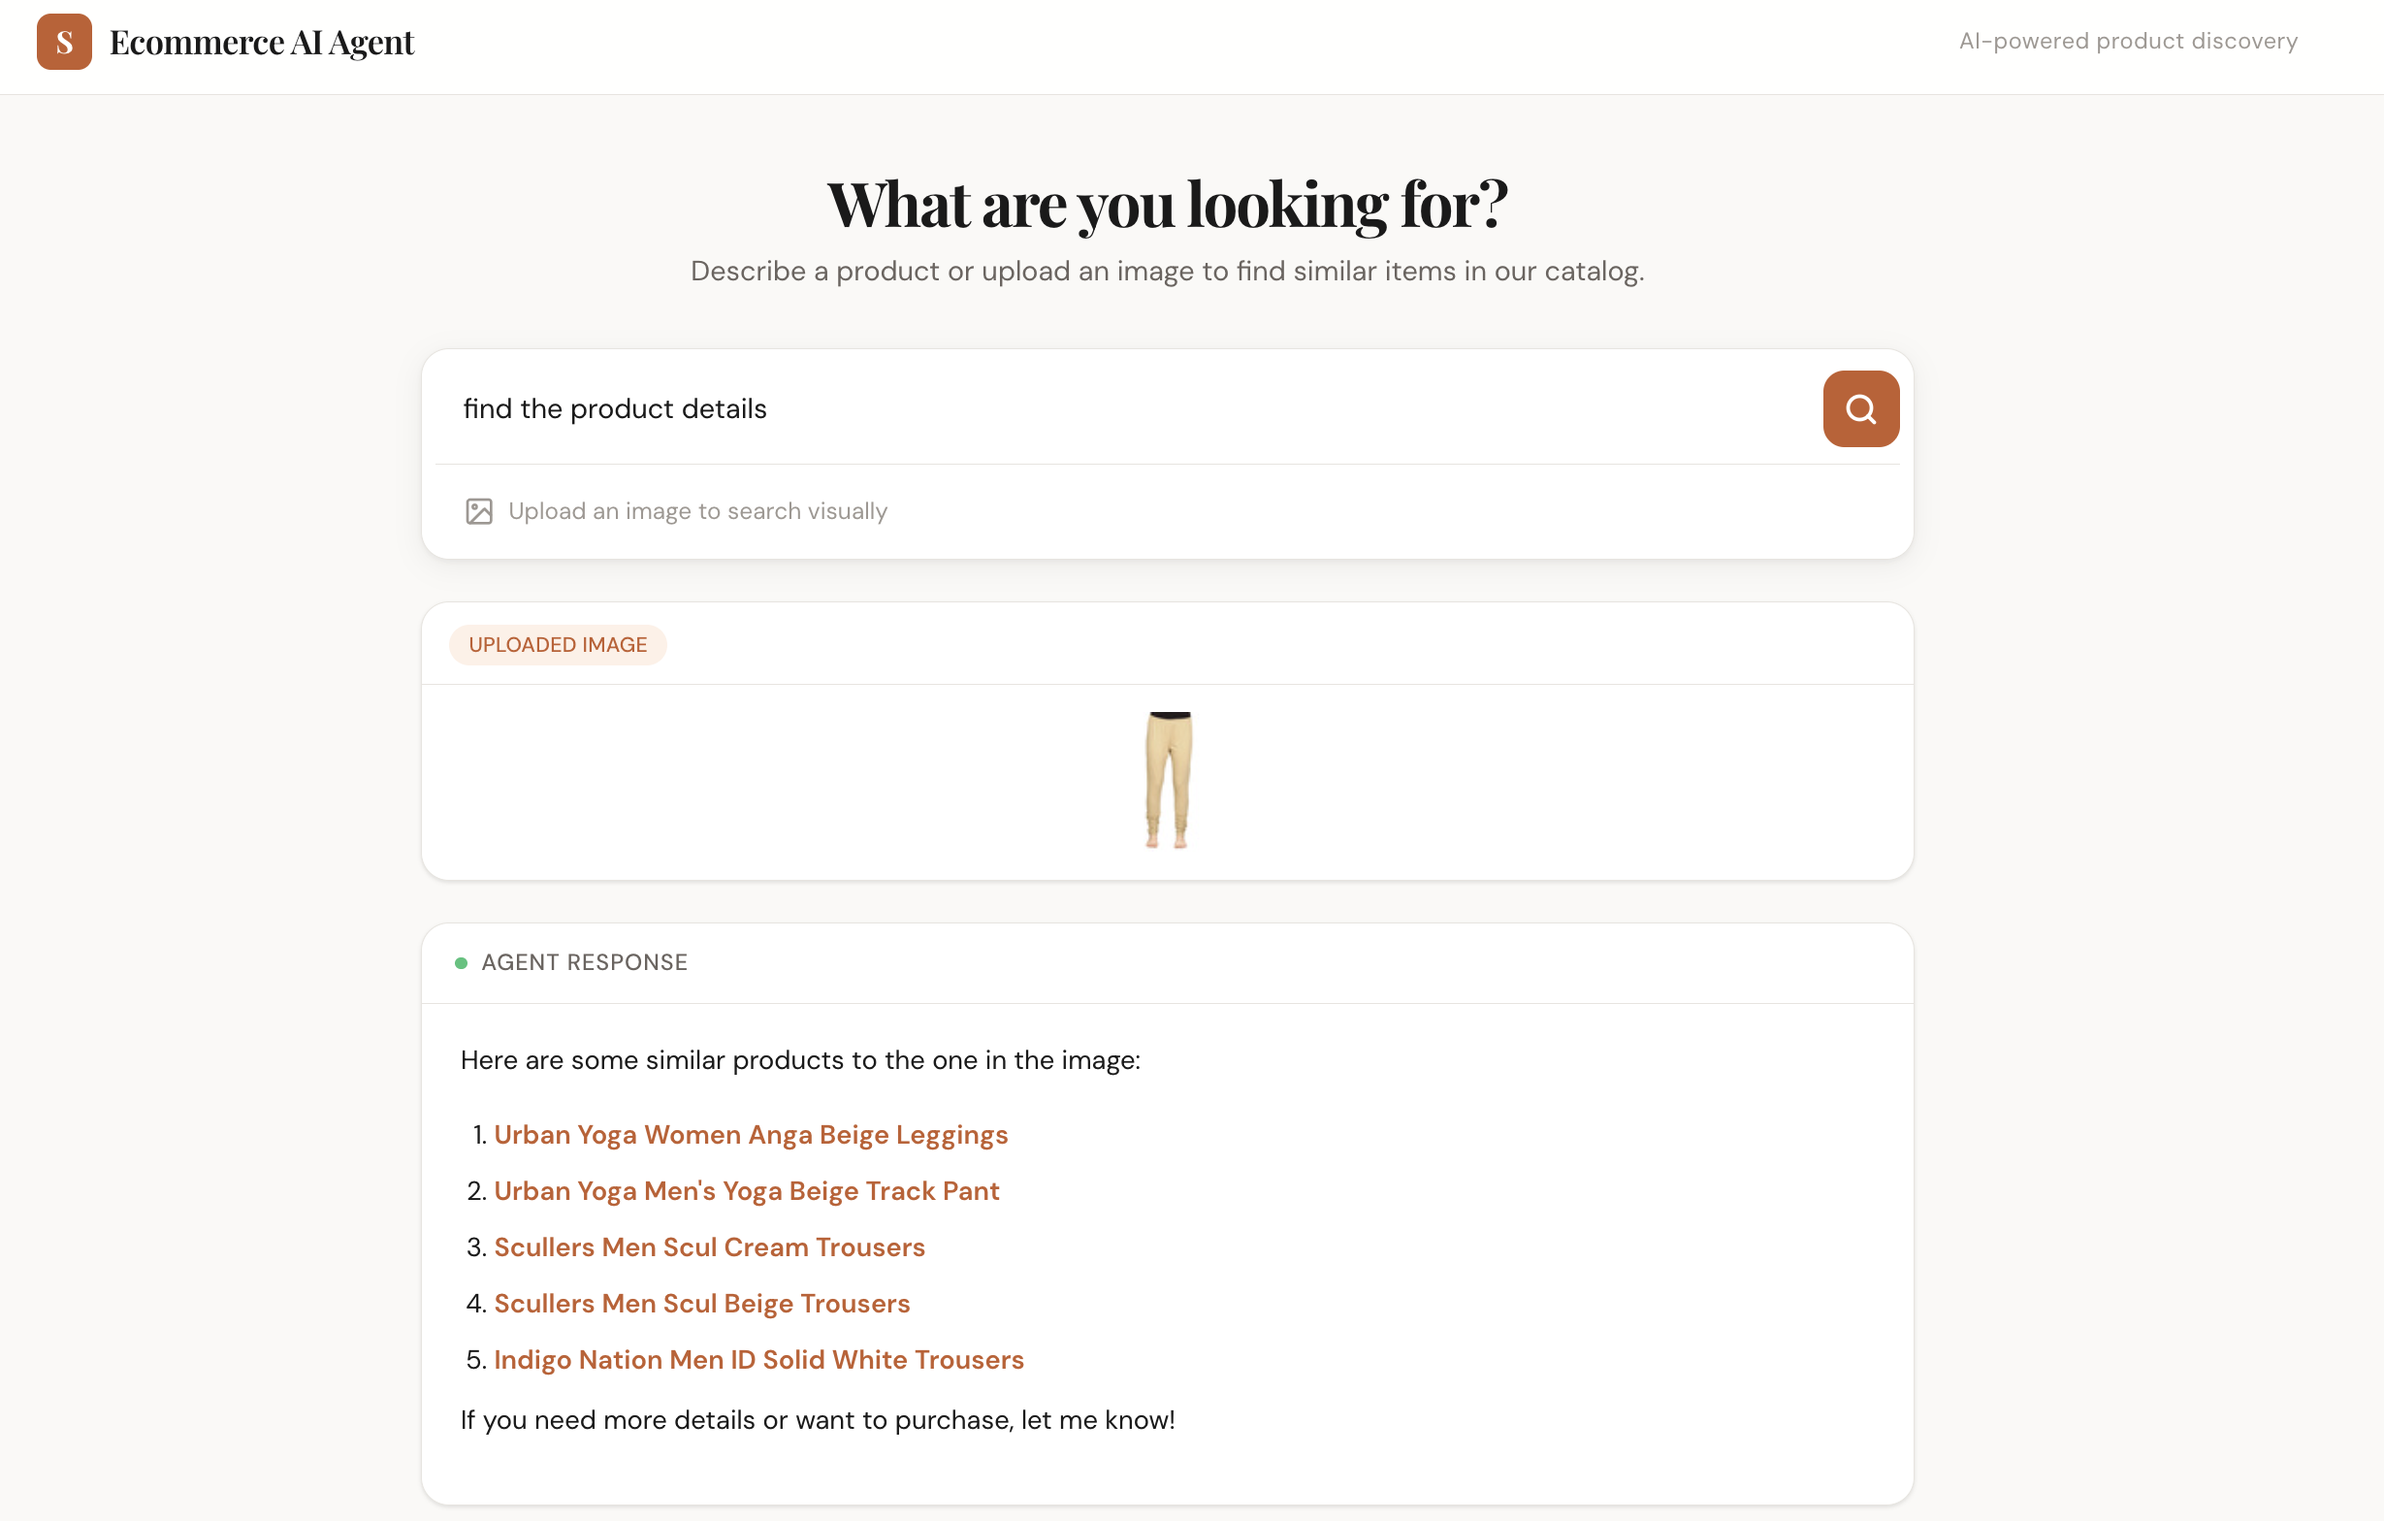
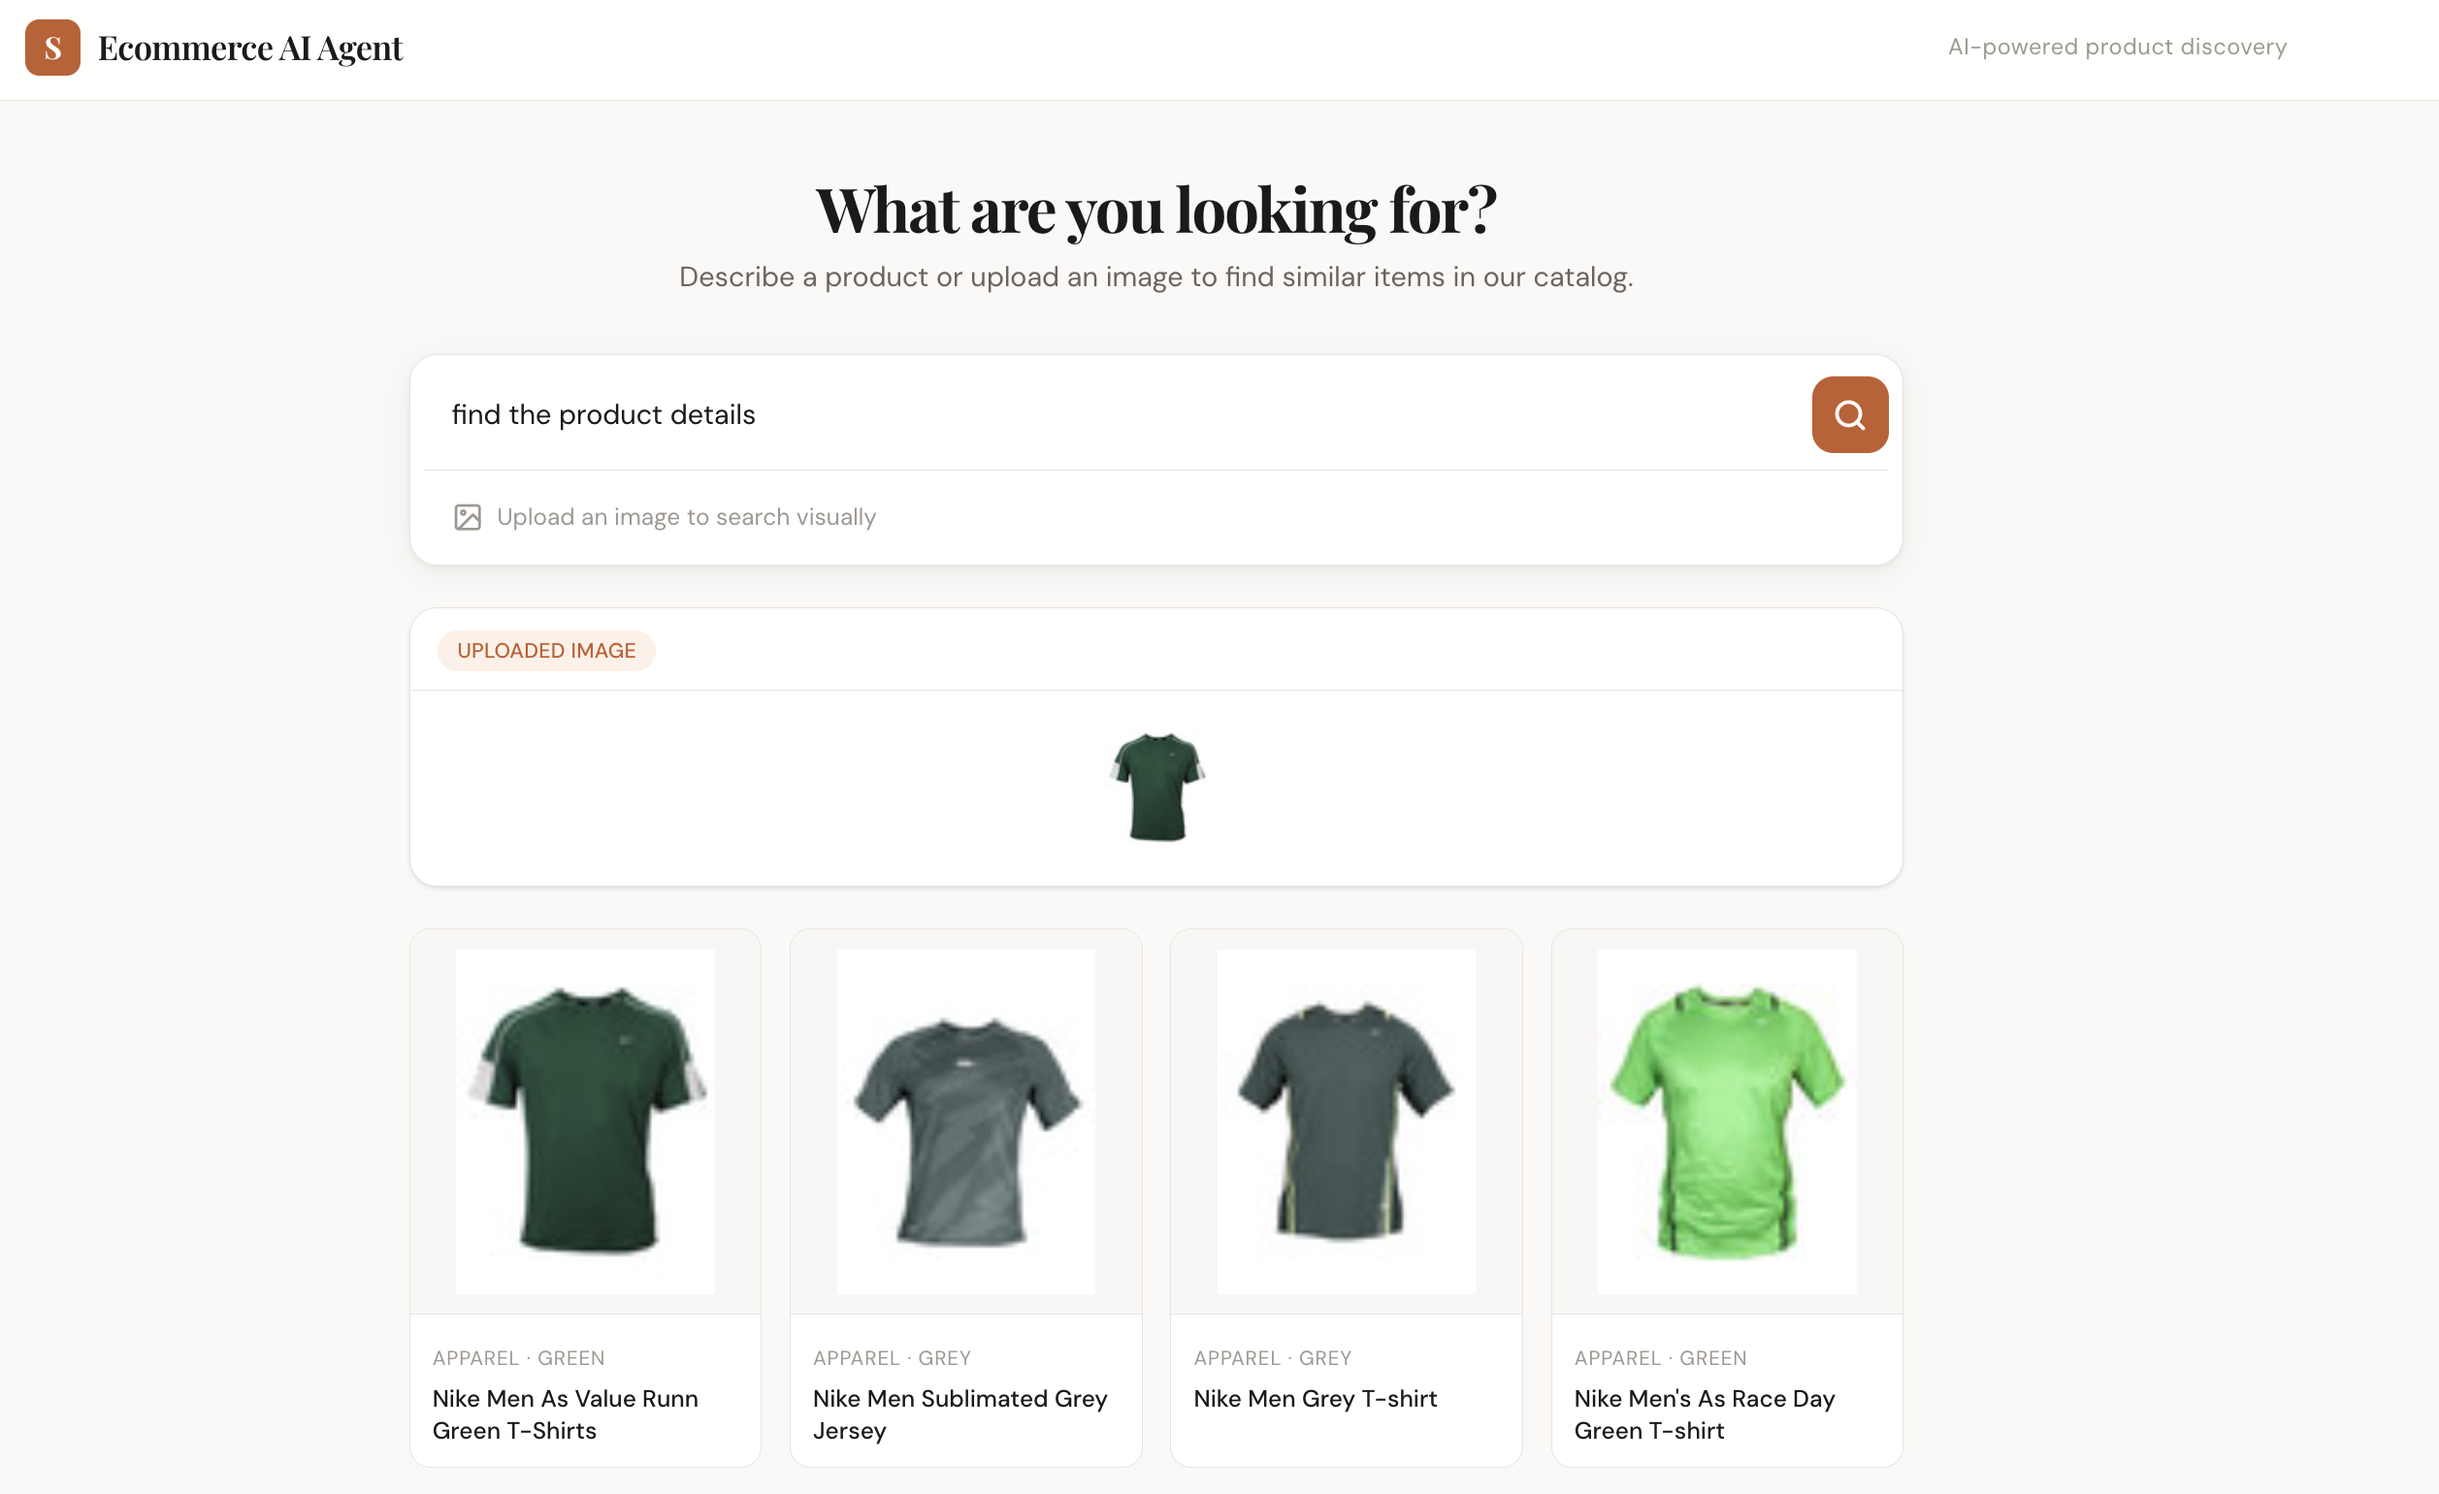
feat: added product cards on UI

diff --git a/static/style.css b/static/style.css
@@ -325,3 +325,65 @@ body {
   .search-input { font-size: 0.95rem; }
   .results-body { padding: 1rem; }
 }
+
+/* Product grid */
+
+.product-grid {
+  display: grid;
+  grid-template-columns: repeat(auto-fill, minmax(200px, 1fr));
+  gap: 1rem;
+  margin-top: 1.2rem;
+}
+
+.product-card {
+  background: var(--bg-card);
+  border: 1px solid var(--border);
+  border-radius: var(--radius-md);
+  overflow: hidden;
+  transition: box-shadow 0.2s ease, transform 0.15s ease;
+  animation: fadeSlideUp 0.35s ease-out;
+}
+
+.product-card:hover {
+  box-shadow: var(--shadow-md);
+  transform: translateY(-2px);
+}
+
+.product-img-wrap {
+  background: #f8f7f5;
+  padding: 0.5rem;
+  display: flex;
+  align-items: center;
+  justify-content: center;
+  min-height: 220px;
+}
+
+.product-img {
+  width: 80%;
+  object-fit: contain;
+  image-rendering: auto;
+}
+
+.product-info {
+  padding: 0.7rem 0.8rem;
+  border-top: 1px solid var(--border);
+}
+
+.product-category {
+  font-size: 0.72rem;
+  color: var(--text-hint);
+  text-transform: uppercase;
+  letter-spacing: 0.04em;
+}
+
+.product-name {
+  font-size: 0.85rem;
+  font-weight: 500;
+  margin: 0.25rem 0 0;
+  line-height: 1.35;
+  color: var(--text-primary);
+  display: -webkit-box;
+  -webkit-line-clamp: 2;
+  -webkit-box-orient: vertical;
+  overflow: hidden;
+}

diff --git a/templates/index.html b/templates/index.html
@@ -47,15 +47,32 @@
     {% endif %}
 
     {% if response %}
-    <div class="results-section">
-      <div class="results-header">
-        <div class="results-dot"></div>
-        <span>Agent response</span>
+      <div class="results-section">
+        <div class="results-header">
+          <div class="results-dot"></div>
+          <span>Agent response</span>
+        </div>
+        <div class="results-body">
+          {{ response | markdown | safe }}
+        </div>
       </div>
-      <div class="results-body">
-        {{ response | markdown | safe }}
+    {% endif %}
+
+    {% if products %}
+      <div class="product-grid">
+        {% for product in products %}
+        <div class="product-card">
+          <div class="product-img-wrap">
+            <img src="{{ url_for('static', filename='images/' + product.image) }}" 
+                alt="{{ product.name }}" class="product-img">
+          </div>
+          <div class="product-info">
+            <span class="product-category">{{ product.category }} · {{ product.colour }}</span>
+            <h3 class="product-name">{{ product.name }}</h3>
+          </div>
+        </div>
+        {% endfor %}
       </div>
-    </div>
     {% endif %}
 
   </div>

diff --git a/app.py b/app.py
@@ -191,7 +191,7 @@ def product_recommendation(query):
     results = []
     try:
         cur.execute("""
-            SELECT id, product_display_name
+            SELECT id, product_display_name, image_name, master_category, base_colour
             FROM products
             ORDER BY embedding <=> %s::vector
             LIMIT 5
@@ -214,7 +214,7 @@ def image_product_search(image):
     results = []
     try:
         cur.execute("""
-            SELECT id, product_display_name
+            SELECT id, product_display_name, image_name, master_category, base_colour
             FROM products
             ORDER BY embedding <=> %s::vector
             LIMIT 5
@@ -279,13 +279,16 @@ def run_agent(query, image_path=None):
     # Tool was called → execute it
     messages.append(message)  # add assistant's tool call to history
     
+    found_products = []
     for tool_call in message.tool_calls:
         args = json.loads(tool_call.function.arguments)
         
         if tool_call.function.name == "product_recommendation":
             result = product_recommendation(args["query"])
+            found_products = result
         elif tool_call.function.name == "image_product_search":
             result = image_product_search(image_path)
+            found_products = result
         
         messages.append({
             "role": "tool",
@@ -300,7 +303,19 @@ def run_agent(query, image_path=None):
         messages=messages
     )
     
-    return final.choices[0].message.content
+    return {
+        "text": final.choices[0].message.content,
+        "products": [
+            {
+                "id": p[0],
+                "name": p[1],
+                "image": os.path.basename(p[2]),  # turns "/Users/.../static/images/12345.jpg" into "12345.jpg"
+                "category": p[3],
+                "colour": p[4]
+            }
+            for p in found_products
+        ]
+    }
 
 # Routes 
 
@@ -333,8 +348,16 @@ def index():
             # Prompt the model with tools defined
             # client.chat.completions.create = Chat Completions API
             # client.responses.create =  Responses API
-            response = run_agent(query, filepath if file else None)
-            print(f'Results: {response}')
+            result = run_agent(query, filepath if file else None)
+            if isinstance(result, dict):
+                response = None
+                products = result["products"]
+            else:
+                response = result  # general chat, no products
+                products = []
+            return render_template('index.html', 
+                filename=filename, response=response, 
+                products=products, query=query)
         except Exception as exc:
             flash(f"Agent error: {exc}", "danger")
             return redirect(url_for("index"))
